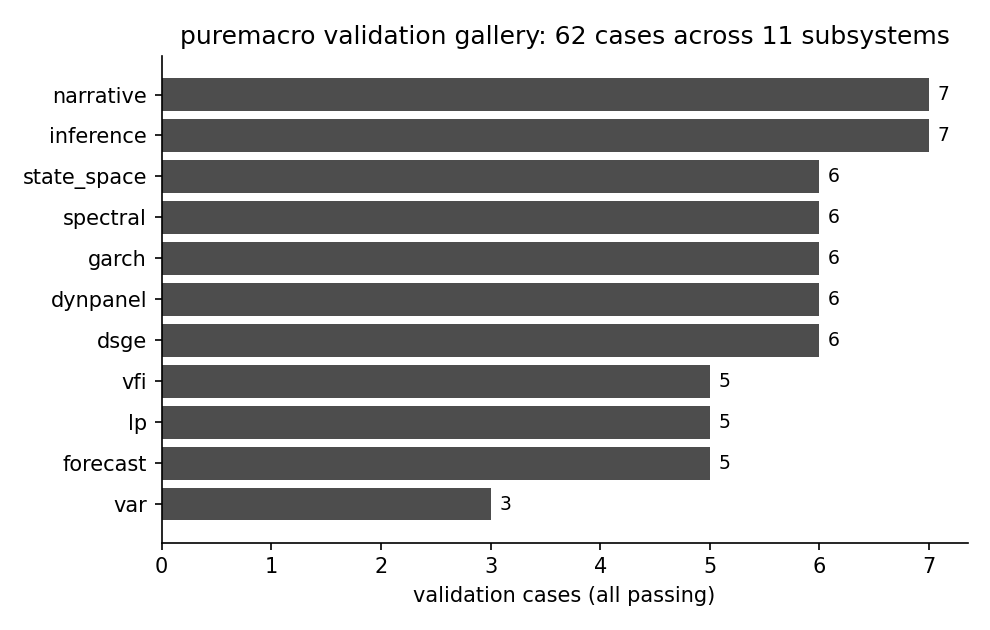
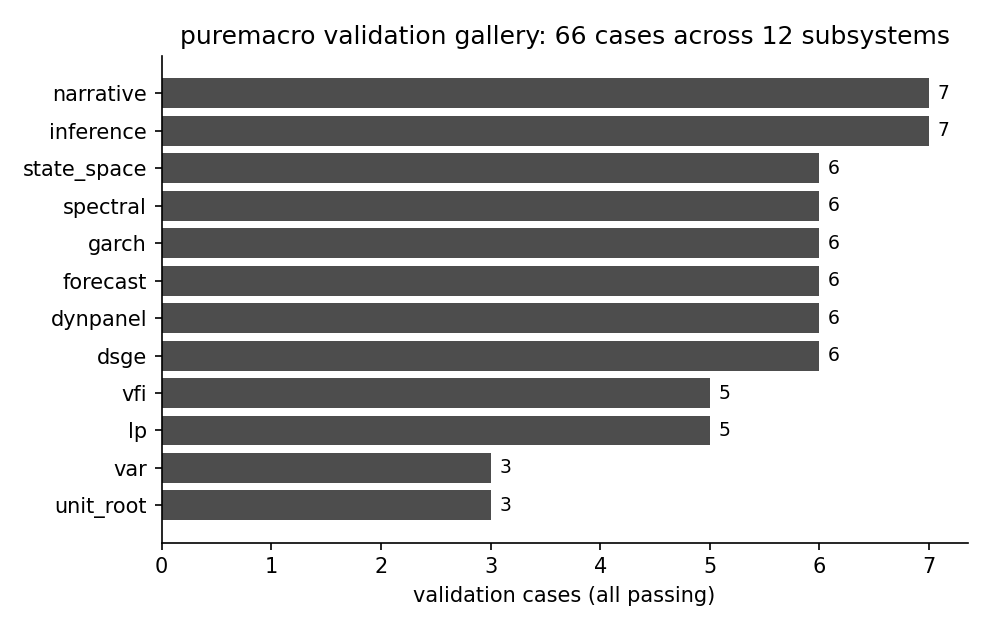
paper(joss): refresh to current library state for submission
- validation gallery 62 -> 66 cases, 11 -> 12 subsystems (regenerated figure)
- add native X-11 seasonal adjustment, GLS-detrended unit-root tests, and
  forecast evaluation (Diebold-Mariano, Model Confidence Set) to the feature set
- date -> 24 July 2026; keep the committed author ORCID
- RELEASING §6: ORCID is present pending author confirmation

Guard (tests/test_paper.py) passes: structure, 490-word body, citations resolve,
library/research-paper separation enforced.

diff --git a/paper/paper.md b/paper/paper.md
@@ -16,7 +16,7 @@ authors:
 affiliations:
   - name: Instituto Tecnológico Autónomo de México (ITAM), Mexico City, Mexico
     index: 1
-date: 31 May 2026
+date: 24 July 2026
 bibliography: paper.bib
 ---
 
@@ -34,8 +34,9 @@ ARCH/GARCH volatility models [@engle1982; @bollerslev1986],
 heteroskedasticity- and autocorrelation-consistent inference [@neweywest1987],
 dynamic-panel and weak-instrument estimators, difference-in-differences and
 synthetic control, value-function iteration and heterogeneous-agent equilibria
-[@aiyagari1994], linear DSGE solution [@smetswouters2007], and text-based
-uncertainty indices [@bbd2016].
+[@aiyagari1994], linear DSGE solution [@smetswouters2007], a native pure-Python
+X-11/ARIMA seasonal-adjustment engine, forecast-evaluation and model-comparison
+tests, and text-based uncertainty indices [@bbd2016].
 
 # Statement of need
 
@@ -51,11 +52,11 @@ local-projection impulse response, or an Aiyagari equilibrium at zero cost, with
 nothing to install.
 
 Breadth alone is not trustworthy, so `puremacro` ships its own evidence. A
-built-in **validation gallery** contains 62 cases that continuously check the
+built-in **validation gallery** contains 66 cases that continuously check the
 library's estimators against independent references — statsmodels [@statsmodels2010],
 `arch`, and `linearmodels` where a canonical implementation exists, and
 closed-form solutions, published numbers, or internal cross-method identities
-elsewhere — across eleven subsystems (\autoref{fig:scorecard}). A companion
+elsewhere — across twelve subsystems (\autoref{fig:scorecard}). A companion
 **replication gallery** reproduces published results from heterogeneous-agent and
 DSGE models. Both are wired into the CI workflows shipped with the package and
 re-run in a single line, `puremacro.validation.scorecard()`, including in the
@@ -74,10 +75,14 @@ continuously verified, self-contained correctness record.
   difference-in-differences, and synthetic control.
 - **Computational macro:** value-function iteration, the endogenous grid method,
   Aiyagari and Huggett equilibria, and linear DSGE solution.
+- **Seasonal adjustment, unit roots, and forecasting:** a native pure-Python
+  X-11/ARIMA engine validated against X-13ARIMA-SEATS, GLS-detrended unit-root
+  tests (DF-GLS, Ng-Perron), and forecast-evaluation tools including
+  Diebold–Mariano and the Model Confidence Set.
 - **Reproducibility and teaching:** an in-browser JupyterLite playground and
   bilingual (English/Spanish) documentation and example notebooks.
 
-![Validation coverage: 62 cases across 11 subsystems, each checked against an independent reference.\label{fig:scorecard}](scorecard.png){ width=70% }
+![Validation coverage: 66 cases across 12 subsystems, each checked against an independent reference.\label{fig:scorecard}](scorecard.png){ width=70% }
 
 # Acknowledgements
 

diff --git a/RELEASING.md b/RELEASING.md
@@ -109,7 +109,7 @@ The JupyterLite playground (`playground/`) is one build from live and now bundle
 The paper is prepared at `paper/paper.md` (+ `paper.bib`, `scorecard.png`). JOSS
 requires the software to be public and archived, so submit **after** a release path
 (§2) is live:
-1. Fill the author **ORCID** in `paper/paper.md` (currently a `0000-…` placeholder).
+1. Confirm the author **ORCID** in `paper/paper.md` (currently `0000-0002-5941-9928`).
 2. Tag a release and archive the repo to get a **Zenodo DOI** (Zenodo ↔ GitHub integration).
 3. Open a submission at https://joss.theoj.org/papers/new (repo URL + the Zenodo DOI).
 4. Regenerate the figure if the validation gallery changed: `python paper/make_scorecard_fig.py`.
